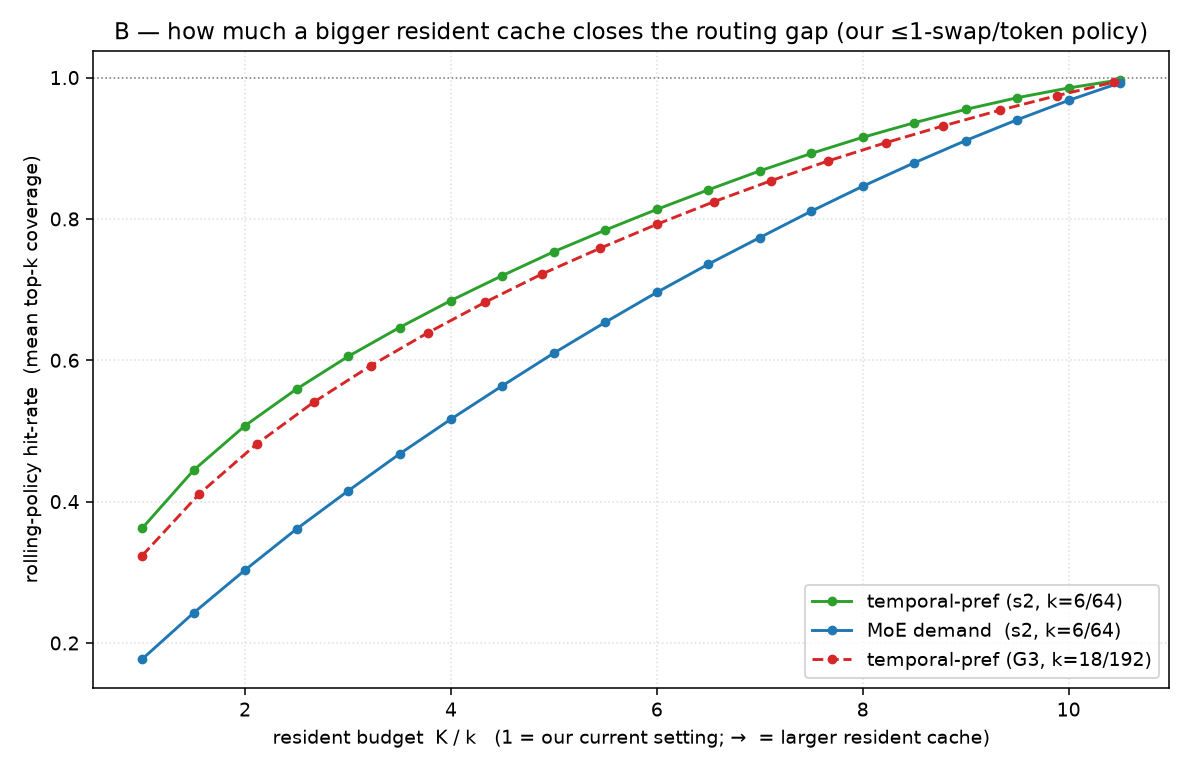
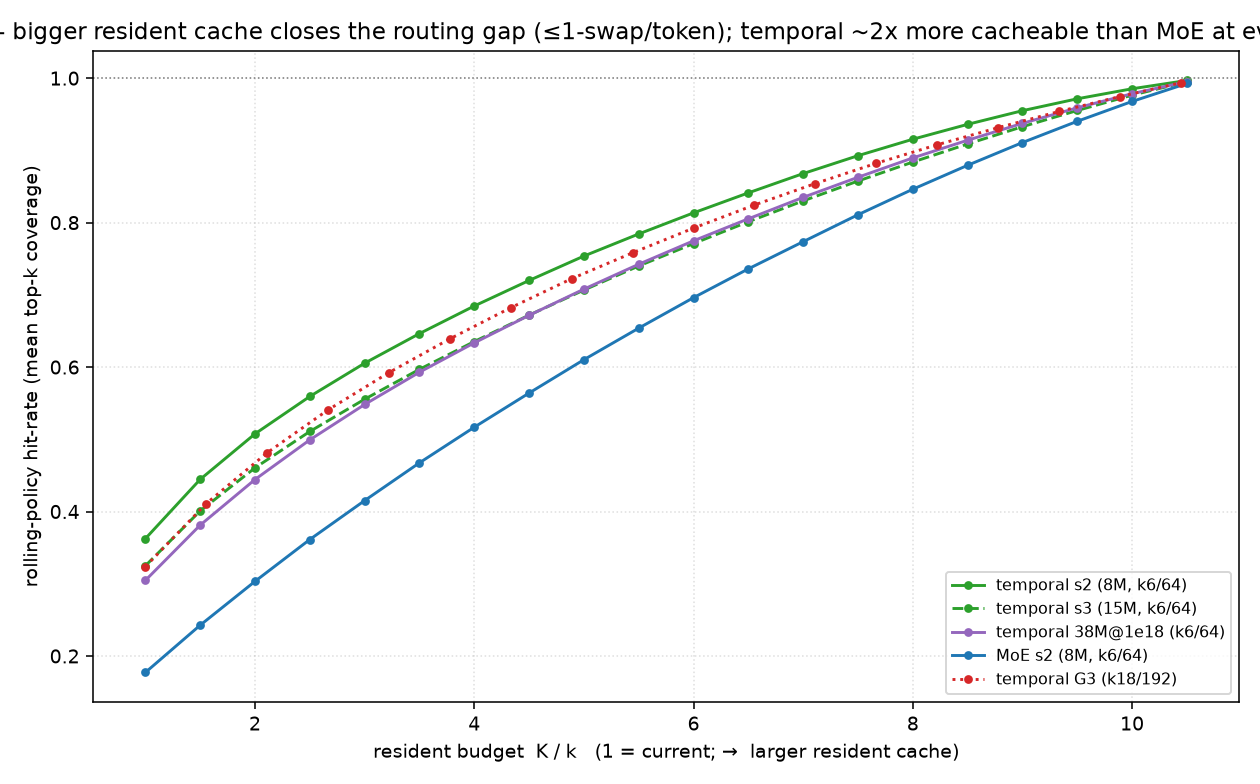
Mechanistic probe at larger scale: s3@1e17 (15M) + 38M@1e18
Added router probes for the s3@1e17 matched pair and the 38M/1e18 temporal model
(paper's real budget, 50k vocab; PROBE hook added to flame38m_temporal.sh).

Finding: the learned-locality effect is ROBUST BUT FLAT, not a scaling law.
Temporal's top-k(t)-vs-previous-active-set overlap stays ~1.5-1.8x the vanilla MoE
and ~3-4x random at every size (s0 33%, s2 38%, s3 33.5%, 38M 30.4%; MoE ~20%,
random 9.4%). 38M raster still clearly banded. B/C: all temporal models cluster
~2x more cacheable than MoE regardless of size. New figs: A3_vs_scale, raster_s3,
raster_38M; B/C overlay all scales.

diff --git a/scripts/phase0/plot_probe.py b/scripts/phase0/plot_probe.py
@@ -1,131 +1,131 @@
 #!/usr/bin/env python3
-"""Mechanistic graphs from the router-probe logs (no training). Generates:
-  A  per-token expert raster: full-MoE top-k / temporal resident / temporal unconstrained-preference
-  B  rolling-policy hit-rate (coverage) vs resident budget K
-  C  expert lifetime vs K
-plus the A3 scalar: does the temporal model, unconstrained, already want its previous resident set?
-
-Reads results/phase0/runs/<run>/router_log.pt. Lower/■ = better where noted.
+"""Mechanistic graphs from the router-probe logs (no training):
+  A   per-token expert raster (full-MoE / temporal-resident / temporal-unconstrained-preference)
+  A3  learned-locality overlap vs model scale (does the router learn to want its resident set?)
+  B   rolling-policy hit-rate (coverage) vs resident budget K
+  C   expert lifetime vs K
+Reads results/phase0/runs/<run>/router_log.pt. See docs/research/mechanistic-probe-results.md.
 """
-import os, numpy as np, torch
+import numpy as np, torch
 import matplotlib; matplotlib.use("Agg"); import matplotlib.pyplot as plt
 
-R = "/workspace/FLAME-MoE/results/phase0/runs"
+RUNS = "/workspace/FLAME-MoE/results/phase0/runs"; OUT = "/workspace/FLAME-MoE/results/phase0"
 def load(run):
-    d = torch.load(f"{R}/{run}/router_log.pt", map_location="cpu")
-    out = {}
-    for ln, rec in d["layers"].items():
-        lg = rec["logits"].float().numpy()                 # [seq, batch, E]
-        mk = rec["mask"].numpy() if rec["mask"] is not None else None
-        out[ln] = {"logits": lg, "mask": mk, "k": rec["k"]}
-    return {"temporal": d["temporal"], "layers": out}
+    d = torch.load(f"{RUNS}/{run}/router_log.pt", map_location="cpu")
+    return {"temporal": d["temporal"],
+            "layers": {ln: {"logits": r["logits"].float().numpy(),
+                            "mask": (r["mask"].numpy() if r["mask"] is not None else None),
+                            "k": r["k"]} for ln, r in d["layers"].items()}}
 
-# matched pairs (temporal, full-MoE) + G3
-S2T, S2M = "tmoe_minlogit_sh1_s2_1e17", "v16k_sweep_s2_1e17"      # 64 experts, k=6, 5 MoE layers
-S0T, S0M = "tmoe_minlogit_sh1_s0_1e16", "v16k_d_s0_1e16"          # 64 experts, k=6, 3 MoE layers
-G3T      = "g3_tmoe_s1_1e17"                                       # 192 experts, k=18, 4 MoE layers
-
-def topk_ids(logits, k):                                            # [.., E] -> set-mask [.., E] of top-k
+def topk_ids(logits, k):
     idx = np.argpartition(-logits, k-1, axis=-1)[..., :k]
     m = np.zeros_like(logits, bool); np.put_along_axis(m, idx, True, axis=-1); return m
 
-# ---------------- A: per-token expert raster (s2@1e17, deepest MoE layer, one sequence) ----------------
-def graph_A():
-    t = load(S2T); m = load(S2M)
-    L = sorted(t["layers"])[-1]                                    # deepest MoE layer (strongest locality)
-    k = t["layers"][L]["k"]; b, W = 0, 220                          # sequence 0, first W tokens
-    moe_tk  = topk_ids(m["layers"][L]["logits"][:W, b, :], k)      # full MoE top-k
-    res     = t["layers"][L]["mask"][:W, b, :]                     # temporal resident set
-    unc_tk  = topk_ids(t["layers"][L]["logits"][:W, b, :], k)      # temporal unconstrained top-k
-    panels = [("full MoE  (top-k)", moe_tk, "C0"),
-              ("temporal  (resident set used)", res, "C2"),
-              ("temporal  (unconstrained preference)", unc_tk, "C2")]
-    fig, axes = plt.subplots(3, 1, figsize=(13, 7.5), sharex=True)
+# tag, active-params(M), temporal run, full-MoE run (or None)
+PAIRS = [("s0 @1e16", 1.36, "tmoe_minlogit_sh1_s0_1e16", "v16k_d_s0_1e16"),
+         ("s2 @1e17", 8.12, "tmoe_minlogit_sh1_s2_1e17", "v16k_sweep_s2_1e17"),
+         ("s3 @1e17", 14.77, "tmoe_minlogit_sh1_s3_1e17", "v16k_sweep_s3_1e17"),
+         ("38M @1e18", 38.0, "flame38m_temporal_minlogit", None)]
+G3 = ("G3 s1@1e17", 3.91, "g3_tmoe_s1_1e17", None)
+
+# ---------------- A: per-token raster (2 or 3 panels) ----------------
+def raster(temporal_run, moe_run, tag, outfile, W=220):
+    t = load(temporal_run); L = sorted(t["layers"])[-1]; k = t["layers"][L]["k"]
+    E = t["layers"][L]["logits"].shape[-1]; b = 0
+    panels = []
+    if moe_run:
+        m = load(moe_run); panels.append(("full MoE  (top-k)", topk_ids(m["layers"][L]["logits"][:W, b], k), "C0"))
+    panels.append(("temporal  (resident set used)", t["layers"][L]["mask"][:W, b], "C2"))
+    panels.append(("temporal  (unconstrained preference)", topk_ids(t["layers"][L]["logits"][:W, b], k), "C2"))
+    fig, axes = plt.subplots(len(panels), 1, figsize=(13, 2.5*len(panels)+0.6), sharex=True)
+    if len(panels) == 1: axes = [axes]
     for ax, (title, M, c) in zip(axes, panels):
-        ys, xs = np.where(M.T)                                      # expert (y) vs token (x)
-        ax.scatter(xs, ys, s=6, c=c, marker="s"); ax.set_ylabel("expert"); ax.set_title(title, loc="left", fontsize=10)
-        ax.set_ylim(-1, M.shape[1]); ax.grid(True, ls=":", alpha=0.3)
+        ys, xs = np.where(M.T); ax.scatter(xs, ys, s=6, c=c, marker="s")
+        ax.set_ylabel("expert"); ax.set_title(title, loc="left", fontsize=10)
+        ax.set_ylim(-1, E); ax.grid(True, ls=":", alpha=0.3)
     axes[-1].set_xlabel(f"token position (sequence 0, MoE layer {L})")
-    fig.suptitle("A — experts chosen per token: full MoE vs temporal (s2 @ 1e17, k=6 of 64)\n"
-                 "horizontal streaks = an expert stays active across consecutive tokens (temporal locality)")
-    fig.tight_layout(); fig.savefig(f"{R}/../probe_A_raster.png", dpi=140); plt.close(fig)
-    print("wrote probe_A_raster.png")
+    fig.suptitle(f"A — experts chosen per token: {tag} (k={k} of {E})\n"
+                 "horizontal streaks = expert stays active across consecutive tokens (temporal locality)")
+    fig.tight_layout(); fig.savefig(f"{OUT}/{outfile}", dpi=140); plt.close(fig); print("wrote", outfile)
 
-# ---------------- A3 scalar: unconstrained preference vs previous resident set --------------------------
-def a3_overlap():
-    t = load(S2T); m = load(S2M); rows = []
-    for tag, run in [("temporal (s2)", t), ("MoE (s2)", m)]:
-        ov_prev_res, ov_prev_top = [], []
-        for L, rec in run["layers"].items():
-            k = rec["k"]; lg = rec["logits"]; T = lg.shape[0]
-            tk = topk_ids(lg, k)                                    # [T,B,E] this-token top-k
-            # previous-token reference set: resident(t-1) for temporal, top-k(t-1) for MoE
-            prev = (rec["mask"] if rec["mask"] is not None else tk)
-            inter = (tk[1:] & prev[:-1]).sum(-1) / k                # overlap of top-k(t) with prev set(t-1)
-            ov_prev_res.append(inter.mean())
-        rows.append((tag, float(np.mean(ov_prev_res))))
-    print("A3  overlap( unconstrained top-k(t) , previous resident/top-k(t-1) ):")
-    for tag, v in rows: print(f"      {tag:16s} {v*100:5.1f}%")
-    return rows
+# ---------------- A3: learned-locality overlap vs scale ----------------
+def overlap(run):
+    r = load(run); vals = []
+    for L, rec in r["layers"].items():
+        k = rec["k"]; tk = topk_ids(rec["logits"], k)
+        prev = rec["mask"] if rec["mask"] is not None else tk           # resident(t-1) / top-k(t-1)
+        vals.append(((tk[1:] & prev[:-1]).sum(-1) / k).mean())
+    return float(np.mean(vals))
 
-# ---------------- rolling residency simulation (our policy: K budget, <=1 swap/token, min_logit) --------
-def rolling(logits, k, K, evict="min_logit"):
-    T, E = logits.shape
-    order = np.argsort(-logits, axis=1)
-    res = np.zeros(E, bool); res[order[0, :K]] = True
-    enter = np.where(res, 0, -1).astype(float); cov = np.empty(T); lifes = []
-    for tkn in range(T):
-        D = order[tkn, :k]; dm = np.zeros(E, bool); dm[D] = True
-        cov[tkn] = res[D].mean()
-        for e in D[~res[D]][:1]:                                    # <=1 swap/token: highest-logit miss
+def a3_scale():
+    print("A3  overlap( top-k(t), previous active set(t-1) )  vs scale:")
+    xs, temp, moe, rnd = [], [], [], []
+    for tag, N, tr, mr in PAIRS:
+        rt = load(tr); E = next(iter(rt["layers"].values()))["logits"].shape[-1]
+        k = next(iter(rt["layers"].values()))["k"]
+        ot = overlap(tr); om = overlap(mr) if mr else np.nan
+        xs.append(N); temp.append(ot); moe.append(om); rnd.append(k/E)
+        print(f"   {tag:10s} N={N:5.1f}M   temporal {ot*100:4.1f}%   MoE {('%4.1f%%'%(om*100)) if mr else '  n/a'}"
+              f"   random {k/E*100:4.1f}%")
+    fig, ax = plt.subplots(figsize=(8, 5.2))
+    ax.plot(xs, np.array(temp)*100, "o-", color="C2", lw=2, label="temporal (learned preference)")
+    mm = [(x, v*100) for x, v in zip(xs, moe) if not np.isnan(v)]
+    ax.plot([p[0] for p in mm], [p[1] for p in mm], "o-", color="C0", label="vanilla MoE (natural)")
+    ax.plot(xs, np.array(rnd)*100, ":", color="gray", label="random baseline (k/E)")
+    ax.set_xscale("log"); ax.set_xlabel("active non-embedding params (millions)")
+    ax.set_ylabel("overlap with previous active set  (%)  — higher = more temporally coherent")
+    ax.set_title("A3 — the temporal router learns to want its resident set (and it holds with scale)")
+    ax.grid(True, which="both", ls=":", alpha=0.4); ax.legend()
+    fig.tight_layout(); fig.savefig(f"{OUT}/probe_A3_vs_scale.png", dpi=140); plt.close(fig)
+    print("wrote probe_A3_vs_scale.png")
+
+# ---------------- rolling residency sim (our policy: K, <=1 swap/token, min_logit) ----------------
+def rolling(logits, k, K):
+    T, E = logits.shape; order = np.argsort(-logits, axis=1)
+    res = np.zeros(E, bool); res[order[0, :K]] = True; enter = np.where(res, 0, -1).astype(float)
+    cov = np.empty(T); lifes = []
+    for tk in range(T):
+        D = order[tk, :k]; dm = np.zeros(E, bool); dm[D] = True; cov[tk] = res[D].mean()
+        for e in D[~res[D]][:1]:
             cand = np.where(res & ~dm)[0]
             if len(cand) == 0: cand = np.where(res)[0]
-            e_out = cand[np.argmin(logits[tkn, cand])]              # min_logit eviction
-            lifes.append(tkn - enter[e_out]); res[e_out] = False; res[e] = True; enter[e] = tkn
-    lifes += list(T - enter[res])
-    return cov.mean(), float(np.mean(lifes))
+            eo = cand[np.argmin(logits[tk, cand])]; lifes.append(tk-enter[eo])
+            res[eo] = False; res[e] = True; enter[e] = tk
+    lifes += list(T - enter[res]); return cov.mean(), float(np.mean(lifes))
 
 def sweep(run, nseq=8):
-    r = load(run); k = next(iter(r["layers"].values()))["k"]
-    E = next(iter(r["layers"].values()))["logits"].shape[-1]
-    Ks = list(range(k, E + 1, max(1, (E - k)//16)))
-    covs, lifes = [], []
+    r = load(run); k = next(iter(r["layers"].values()))["k"]; E = next(iter(r["layers"].values()))["logits"].shape[-1]
+    Ks = list(range(k, E+1, max(1, (E-k)//16))); covs, lifes = [], []
     for K in Ks:
-        c_acc, l_acc, n = 0, 0, 0
-        for L, rec in r["layers"].items():
-            lg = rec["logits"]
-            for b in range(min(nseq, lg.shape[1])):
-                c, l = rolling(lg[:, b, :], k, K); c_acc += c; l_acc += l; n += 1
-        covs.append(c_acc/n); lifes.append(l_acc/n)
-    return np.array(Ks), np.array(covs), np.array(lifes), k, E
+        c = l = n = 0
+        for rec in r["layers"].values():
+            for b in range(min(nseq, rec["logits"].shape[1])):
+                cc, ll = rolling(rec["logits"][:, b], k, K); c += cc; l += ll; n += 1
+        covs.append(c/n); lifes.append(l/n)
+    return np.array(Ks), np.array(covs), np.array(lifes), k
 
-# ---------------- B & C ----------------
 def graphs_BC():
-    series = [("temporal-pref (s2, k=6/64)", S2T, "C2", "-"),
-              ("MoE demand  (s2, k=6/64)",   S2M, "C0", "-"),
-              ("temporal-pref (G3, k=18/192)", G3T, "C3", "--")]
-    data = {name: sweep(run) for name, run, _, _ in series}
-    # B: coverage vs K/k
-    figB, ax = plt.subplots(figsize=(8.5, 5.5))
-    for name, run, c, ls in series:
-        Ks, cov, _, k, E = data[name]; ax.plot(Ks/k, cov, ls, color=c, marker="o", ms=4, label=name)
-    ax.set_xlabel("resident budget  K / k   (1 = our current setting; →  = larger resident cache)")
-    ax.set_ylabel("rolling-policy hit-rate  (mean top-k coverage)")
-    ax.set_title("B — how much a bigger resident cache closes the routing gap (our ≤1-swap/token policy)")
-    ax.grid(True, ls=":", alpha=0.4); ax.legend(); ax.axhline(1.0, color="gray", lw=.8, ls=":")
-    figB.tight_layout(); figB.savefig(f"{R}/../probe_B_coverage_vs_k.png", dpi=140); plt.close(figB)
-    # C: lifetime vs K/k
-    figC, ax = plt.subplots(figsize=(8.5, 5.5))
-    for name, run, c, ls in series:
-        Ks, _, life, k, E = data[name]; ax.plot(Ks/k, life, ls, color=c, marker="o", ms=4, label=name)
-    ax.set_xlabel("resident budget  K / k"); ax.set_ylabel("mean expert lifetime  (consecutive tokens resident)")
-    ax.set_title("C — expert lifetime vs resident budget (our ≤1-swap/token policy)")
-    ax.grid(True, ls=":", alpha=0.4); ax.legend()
-    figC.tight_layout(); figC.savefig(f"{R}/../probe_C_lifetime_vs_k.png", dpi=140); plt.close(figC)
-    print("wrote probe_B_coverage_vs_k.png, probe_C_lifetime_vs_k.png")
-    for name in data:
-        Ks, cov, life, k, E = data[name]
-        print(f"   {name:30s} coverage@K=k {cov[0]*100:4.1f}%  @K=2k {cov[min(len(cov)-1, np.argmin(np.abs(Ks-2*k)))]*100:4.1f}%")
+    series = [("temporal s2 (8M, k6/64)",  "tmoe_minlogit_sh1_s2_1e17", "C2", "-"),
+              ("temporal s3 (15M, k6/64)",  "tmoe_minlogit_sh1_s3_1e17", "C2", "--"),
+              ("temporal 38M@1e18 (k6/64)", "flame38m_temporal_minlogit", "C4", "-"),
+              ("MoE s2 (8M, k6/64)",        "v16k_sweep_s2_1e17", "C0", "-"),
+              ("temporal G3 (k18/192)",     "g3_tmoe_s1_1e17", "C3", ":")]
+    data = {n: sweep(r) for n, r, _, _ in series}
+    for fname, idx, ylab, title in [
+        ("probe_B_coverage_vs_k.png", 1, "rolling-policy hit-rate (mean top-k coverage)",
+         "B — bigger resident cache closes the routing gap (≤1-swap/token); temporal ~2x more cacheable than MoE at every scale"),
+        ("probe_C_lifetime_vs_k.png", 2, "mean expert lifetime (consecutive tokens resident)",
+         "C — expert lifetime vs resident budget (≤1-swap/token policy)")]:
+        fig, ax = plt.subplots(figsize=(9, 5.6))
+        for n, r, c, ls in series:
+            Ks, cov, life, k = data[n]; ax.plot(Ks/k, (cov if idx == 1 else life), ls, color=c, marker="o", ms=3.5, label=n)
+        ax.set_xlabel("resident budget  K / k   (1 = current; →  larger resident cache)")
+        ax.set_ylabel(ylab); ax.set_title(title); ax.grid(True, ls=":", alpha=0.4); ax.legend(fontsize=8)
+        if idx == 1: ax.axhline(1.0, color="gray", lw=.8, ls=":")
+        fig.tight_layout(); fig.savefig(f"{OUT}/{fname}", dpi=140); plt.close(fig); print("wrote", fname)
 
 if __name__ == "__main__":
-    graph_A(); a3_overlap(); graphs_BC()
+    raster("tmoe_minlogit_sh1_s2_1e17", "v16k_sweep_s2_1e17", "full MoE vs temporal (s2 @ 1e17)", "probe_A_raster.png")
+    raster("tmoe_minlogit_sh1_s3_1e17", "v16k_sweep_s3_1e17", "full MoE vs temporal (s3 @ 1e17, 15M)", "probe_A_raster_s3.png")
+    raster("flame38m_temporal_minlogit", None, "temporal 38M @ 1e18 (real budget)", "probe_A_raster_38M.png")
+    a3_scale(); graphs_BC()

diff --git a/docs/research/mechanistic-probe-results.md b/docs/research/mechanistic-probe-results.md
@@ -45,3 +45,28 @@ G3 experts live longer per swap (more experts, each churned less often).
    — finer experts specialize harder and tolerate residency slightly worse.
 
 All A/B/C come from the same 5 probe passes; only D needs new training.
+
+## Larger models (#1 s3@1e17 14.8M, #2 38M@1e18 real budget) — does it hold at scale?
+
+Added probes: `tmoe_minlogit_sh1_s3_1e17` + `v16k_sweep_s3_1e17` (s3, ~14.8M active), and
+`flame38m_temporal_minlogit` (38M active, the paper's 1e18 budget, 50k vocab). Figures:
+`probe_A_raster_s3.png`, `probe_A_raster_38M.png`, `probe_A3_vs_scale.png` (+ B/C now overlay all).
+
+**A3 overlap (top-k(t) vs previous active set), by scale:**
+
+| model | active | temporal | vanilla MoE | random |
+|---|---|---|---|---|
+| s0 @1e16 | 1.4M | 33.2% | 19.4% | 9.4% |
+| s2 @1e17 | 8.1M | 38.2% | 21.3% | 9.4% |
+| s3 @1e17 | 14.8M | 33.5% | 20.2% | 9.4% |
+| 38M @1e18 | 38M | 30.4% | (not trained) | 9.4% |
+
+**Finding: the learned-locality effect is robust but roughly flat, not a scaling law.** Temporal stays
+**~1.5–1.8× the vanilla MoE and ~3–4× random at every size** (incl. 38M at the paper's real 1e18 budget,
+50k vocab). The 38M raster still shows clearly banded resident + unconstrained-preference panels. It does
+**not** strengthen with scale in our range (peaks at s2, slight decline at 38M — though 38M uses a
+different tokenizer/data, so it's not a clean same-family comparison; the clean 16k family s0/s2/s3 is
+33→38→33%). B/C: all temporal models cluster ~2× more cacheable than the MoE regardless of size.
+
+**Caveat:** these are still small (≤38M active) vs frontier MoEs; the effect could scale differently at
+100B+. The definitive test is a released FLAME-MoE (290M–1.7B) probe (#3) or a larger temporal train (#4).
